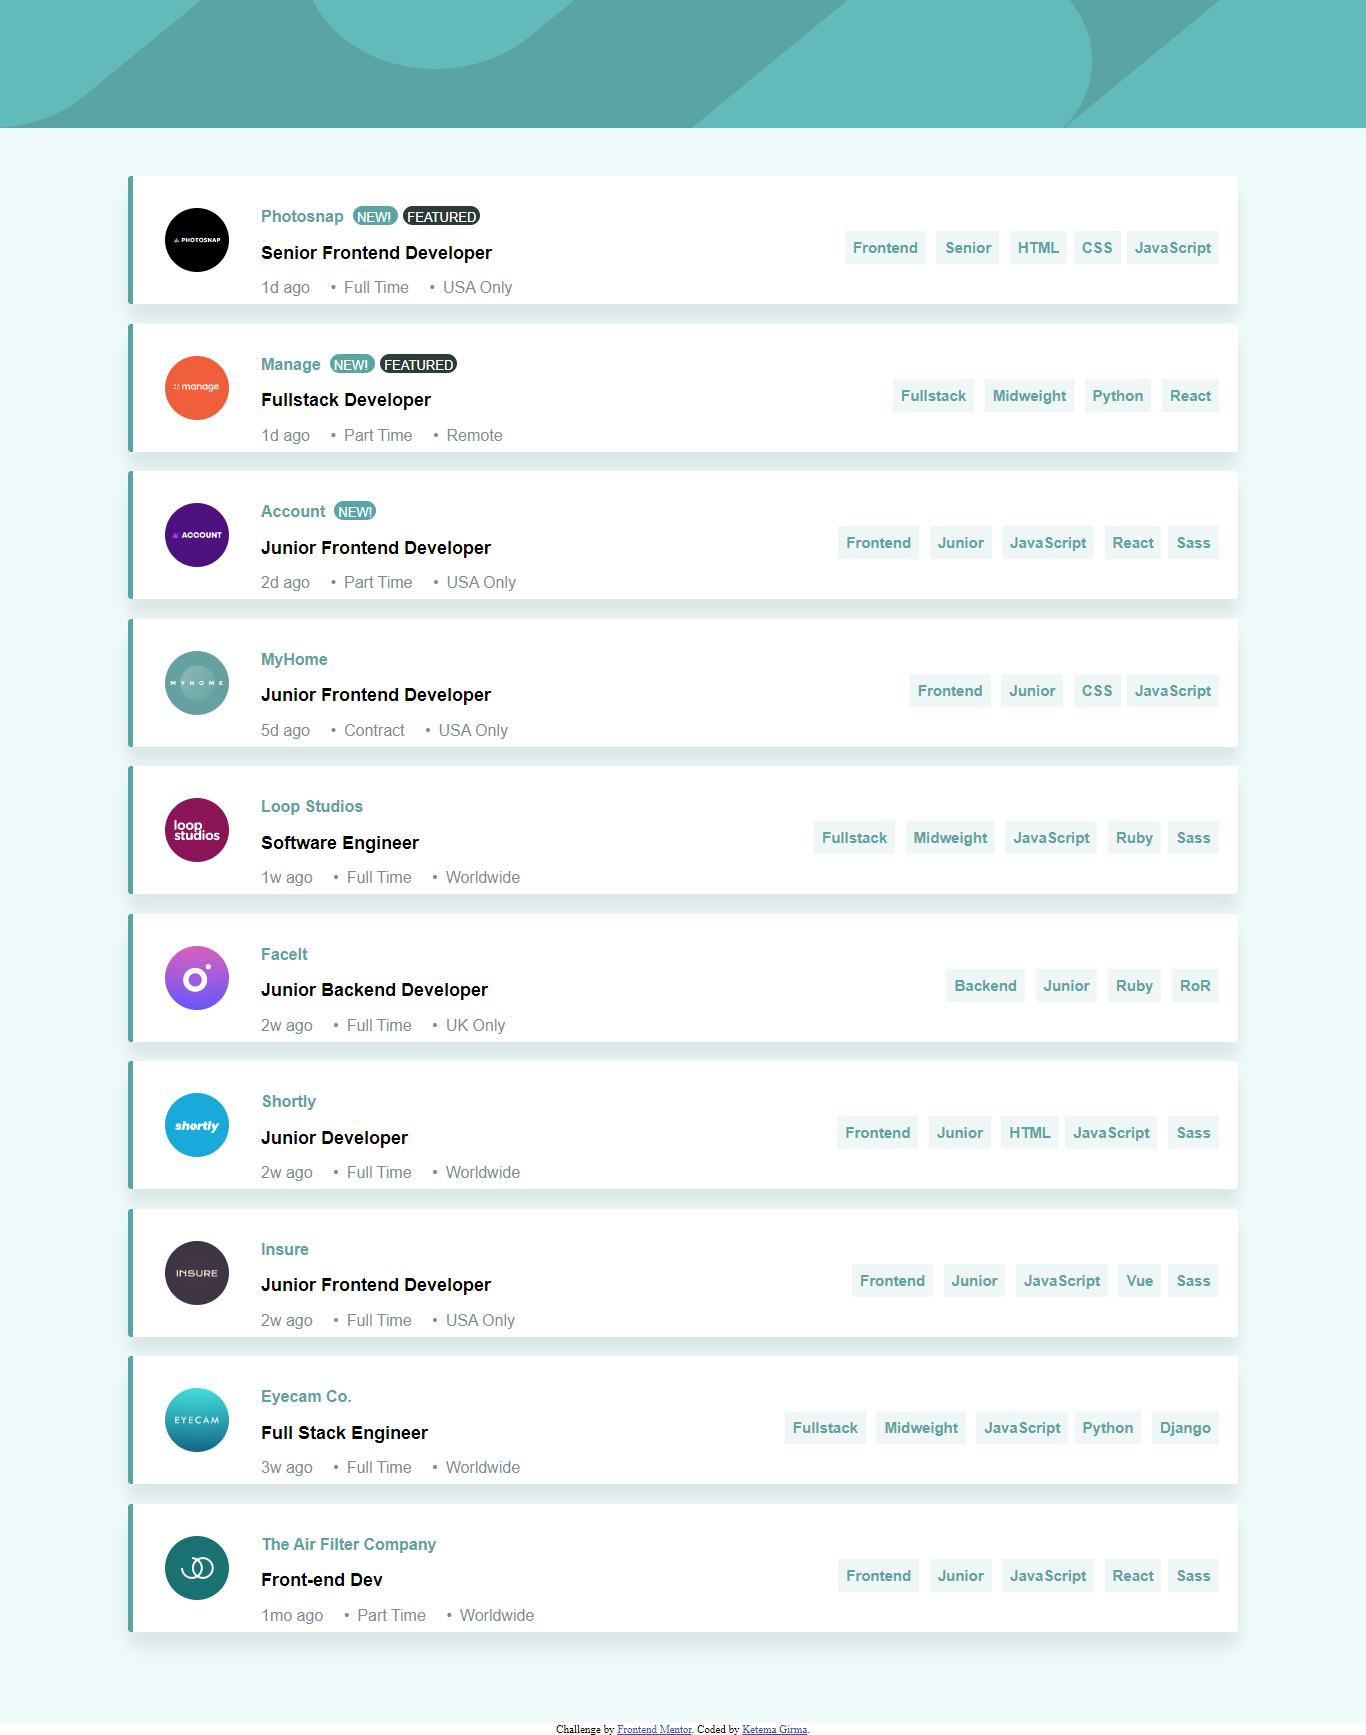
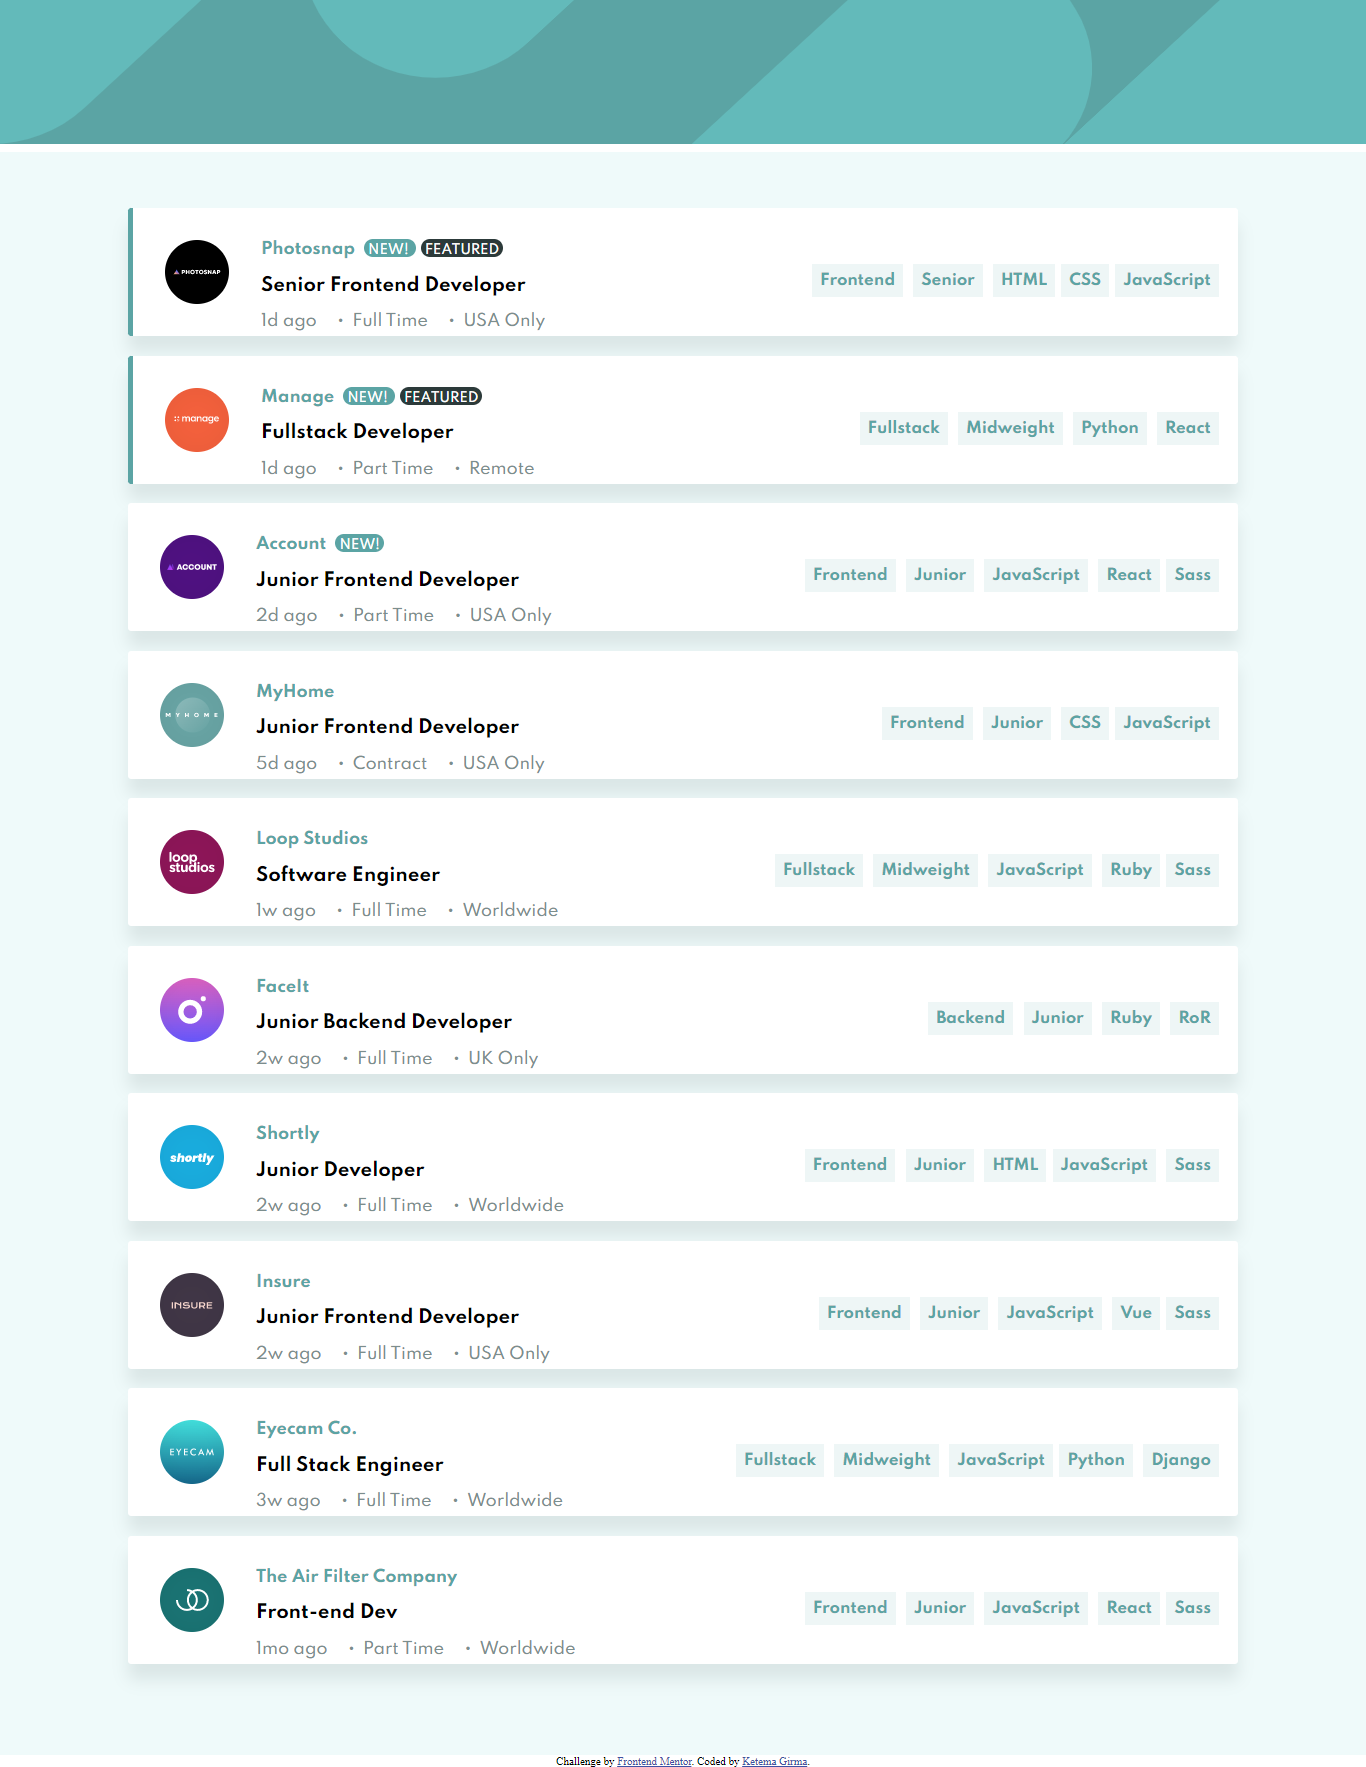
update

diff --git a/index.js b/index.js
@@ -6,14 +6,14 @@ fetch("./data.json")
             for (let i = 0; i < data.length; i++) {
                 const client = document.getElementById("main").innerHTML +=
                     `
-            <div class="client client--${i}" id=client >
+            <div class="client client--${i}"  >
                 <div class = "client__description">
                     <span class = "client__name"> ${data[i].company} </span> 
-                    <span class = "client__IsNew" style="border:none; display:${(data[i].new)? 'visible' : 'none'} ">new! </span> 
-                    <span class = "client_IsFeatured" style="display:${(data[i].featured)? 'visible' : 'none'} ">featured</span> 
+                    <span class = "client__IsNew" style="border:none; display:${(data[i].new)? 'inline' : 'none'} ">new! </span> 
+                    <span class = "client_IsFeatured" style="display:${(data[i].featured)? 'inline' : 'none'} ">featured</span> 
                     </div>
-                    <img src="${data[i].logo}" alt="" class="client__image" id='logo'>
-                    <h1 class="client__header" id="header"> ${data[i].position}</h1>
+                    <img src="${data[i].logo}" alt="" class="client__image">
+                    <h1 class="client__header" > ${data[i].position}</h1>
                     <div class="client__info">
                         <ul class="client__work">
                             <li class="client__time">${data[i].postedAt}</li>

diff --git a/index.css b/index.css
@@ -6,14 +6,14 @@
     
     .header__image {
         width: 100vw;
-        height: 8rem;
+        height: 9rem;
         background-color: hsl(180, 29%, 50%);
         position: fixed;
         z-index: 1;
     }
     
     .main__container {
-        padding-top: 8rem;
+        padding-top: 10rem;
     }
     
     .client {
